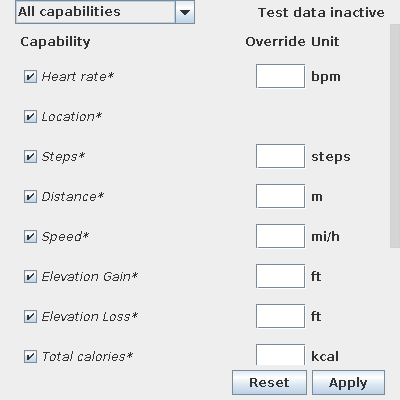
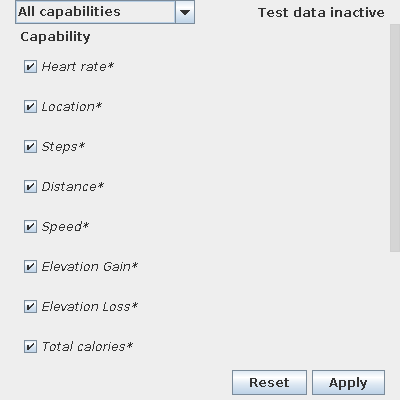
Hide overrides when there is no active exercise
Bug: 305924111
Test: Screenshot tests

diff --git a/wear-whs/src/com/android/tools/idea/wearwhs/view/WearHealthServicesToolWindow.kt b/wear-whs/src/com/android/tools/idea/wearwhs/view/WearHealthServicesToolWindow.kt
@@ -54,6 +54,7 @@ import javax.swing.BoxLayout
 import javax.swing.DefaultComboBoxModel
 import javax.swing.JButton
 import javax.swing.JCheckBox
+import javax.swing.JComponent
 import javax.swing.JLabel
 import javax.swing.JPanel
 import javax.swing.JTextField
@@ -227,6 +228,14 @@ internal class WearHealthServicesToolWindow(private val stateManager: WearHealth
       setBorder(Borders.empty(2))
       isVisible = false
     }
+    // List of elements that should be hidden if there's an active exercise
+    val overrideElementsList = mutableListOf<JComponent>()
+    overrideElementsList.add(warningLabel)
+    stateManager.getOngoingExercise().onEach {
+      overrideElementsList.forEach { element ->
+        element.isVisible = it
+      }
+    }.launchIn(uiScope)
     return JPanel(VerticalFlowLayout()).apply {
       add(warningLabel)
       border = horizontalBorders
@@ -236,11 +245,8 @@ internal class WearHealthServicesToolWindow(private val stateManager: WearHealth
         }, BorderLayout.CENTER)
         add(JPanel(FlowLayout()).apply {
           add(JLabel(message("wear.whs.panel.override")).apply {
+            overrideElementsList.add(this)
             font = font.deriveFont(Font.BOLD)
-          })
-          add(JLabel(message("wear.whs.panel.unit")).apply {
-            font = font.deriveFont(Font.BOLD)
-            preferredSize = Dimension(50, preferredSize.height)
           })
         }, BorderLayout.EAST)
       })
@@ -272,6 +278,7 @@ internal class WearHealthServicesToolWindow(private val stateManager: WearHealth
           }
           add(checkBox, BorderLayout.CENTER)
           add(JPanel(FlowLayout()).apply {
+            overrideElementsList.add(this)
             add(JTextField().also { textField ->
               textField.addFocusListener(object : FocusListener {
                 override fun focusGained(e: FocusEvent?) {}

diff --git a/wear-whs/testSrc/com/android/tools/idea/wearwhs/view/WearHealthServicesToolWindowTest.kt b/wear-whs/testSrc/com/android/tools/idea/wearwhs/view/WearHealthServicesToolWindowTest.kt
@@ -89,10 +89,11 @@ class WearHealthServicesToolWindowTest {
   @Test
   fun `test panel screenshot matches expectation with modified state manager values`() = runBlocking {
     stateManager.getCapabilitiesList().waitForValue(deviceManager.capabilities)
-
-    deviceManager.failState = true
-
     stateManager.getCapabilitiesList().waitForValue(WHS_CAPABILITIES)
+
+    deviceManager.activeExercise = true
+
+    stateManager.forceUpdateState()
 
     stateManager.setPreset(Preset.CUSTOM)
     stateManager.setCapabilityEnabled(deviceManager.capabilities[0], true)

diff --git a/wear-whs/src/com/android/tools/idea/wearwhs/view/WearHealthServicesToolWindowStateManagerImpl.kt b/wear-whs/src/com/android/tools/idea/wearwhs/view/WearHealthServicesToolWindowStateManagerImpl.kt
@@ -32,6 +32,7 @@ import kotlinx.coroutines.flow.StateFlow
 import kotlinx.coroutines.flow.asStateFlow
 import kotlinx.coroutines.launch
 import org.jetbrains.annotations.VisibleForTesting
+import org.jetbrains.annotations.TestOnly
 import kotlin.time.Duration.Companion.seconds
 
 /**
@@ -196,6 +197,11 @@ internal class WearHealthServicesToolWindowStateManagerImpl(
 
   override fun dispose() { // Clear all callbacks to avoid memory leaks
     capabilityToState.clear()
+  }
+
+  @TestOnly
+  internal suspend fun forceUpdateState() {
+    updateState()
   }
 }
 
